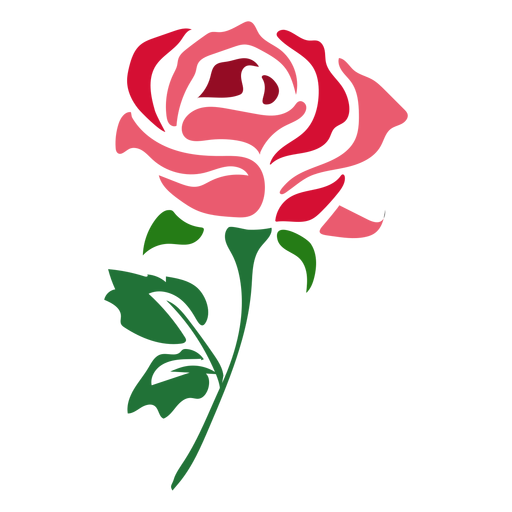
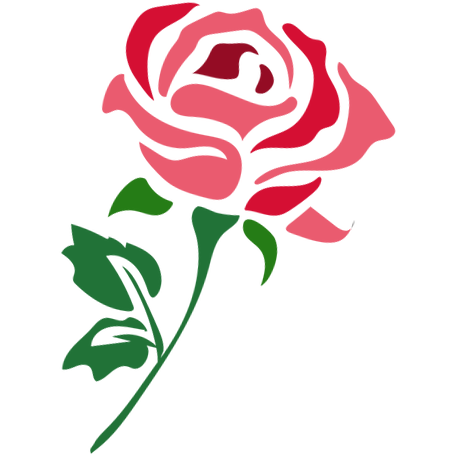
Added a lot to GUI
- Added a proper GUI blueprint and added a tray icon
- Added a configuration file system
- Changed the logo a little (rotated to the right)

Changed region(s): [[0.1228, 0.0, 0.8904, 0.9518], [0.1842, 0.8596, 0.307, 1.0]]

diff --git a/Marseille/GUI.py b/Marseille/GUI.py
@@ -1,36 +1,104 @@
-from PySide6.QtGui import QFont, QFontDatabase
-from PySide6.QtWidgets import QMainWindow, QPushButton, QLabel, QWidget, QApplication
+from PySide6.QtGui import QFont, QFontDatabase, QIcon, QImage, QPicture, QPixmap
+from PySide6.QtWidgets import QApplication, QHBoxLayout, QLabel, QMainWindow, QMenu, QPushButton, QSystemTrayIcon, QTextEdit, QVBoxLayout, QWidget
 import sys
+
 
 # ————— GUI INITIATION FUNCTION —————
 def GUI_Initiation():
+	# ————— LOAD USER CONFIGURATION —————
+	global loaded_config
+	loaded_config = load_config()
+	for config, value in loaded_config.items():
+		print(f">>> {config} : {value}")
+
+	global app, window, tray_icon
 	app = QApplication(sys.argv)
-	QFontDatabase.addApplicationFont("Media\\Anaheim-Regular.ttf")
-	app.setFont(QFont("Anaheim", 40))
-	window = MainWindow()
-	window.show()
+	QFontDatabase.addApplicationFont("Media/Anaheim-Regular.ttf")
+	QFontDatabase.addApplicationFont("Media/Segoe UI.ttf")
+	app.setFont(QFont("Anaheim"))
+
+
+	window = MainWindow()	
+	tray_icon = SystemTrayIcon(QIcon("Media/rose.png"), window)
 
 	app.exec()
 
 	return
+
+def load_config():
+	config = {}
+	file = open("config.txt", "r")
+	# config_lines = file.read().split("\n")
+	config_lines = file.readlines()
+	file.close()
+
+	for line in config_lines:
+		config_split = line.split(":")
+		config[config_split[0]] = eval(config_split[1])
+
+	return config
 
 # ————— MAIN WINDOW CLASS —————
 class MainWindow(QMainWindow):
 	def __init__(self):
 		super().__init__()
 		self.setWindowTitle("Marseille")
-		self.resize(800, 450)
+		self.setWindowIcon(QIcon("Media/rose.png"))
+		self.resize(loaded_config["window_width"], loaded_config["window_height"])
+		self.setMinimumSize(800, 450)
 		self.setContentsMargins(20, 20, 20, 20)
-		self.button1 = SendButton()
-		self.setCentralWidget(self.button1)
- 
-		label = QLabel("Hello World", self)
-		label.move(50, 100)
+		# button1 = SendButton()
+
+		label = QLabel(self)
+		pixmap = QPixmap("Media/rose_resized.png")
+		label.setPixmap(pixmap)
+		self.setCentralWidget(label)
+
+		if loaded_config["open_window_on_startup"]:
+			self.show()
+
+	def closeEvent(self, event):
+		if loaded_config["minimise_in_tray_on_quit"]:
+			event.ignore()
+			window.hide()
+			tray_icon.show()
+			tray_icon.showMessage('Window minimised', 'Marseille is running in the background.')
+			print(">>> Window minimised. Marseille is running in the background.")
+
+# ————— TRAY ICON CLASS —————
+class SystemTrayIcon(QSystemTrayIcon):
+	def __init__(self, icon, parent = None):
+		super().__init__(icon, parent)
+		self.setToolTip("Marseille Tray Application")
+
+		menu = QMenu(parent)
+		menu.setFont(QFont("Segoe UI", 9))
+		open_app = menu.addAction("Open Marseille")
+		open_app.triggered.connect(self.showMWindow)
+		open_app.setIcon(icon)
+
+		menu.addSeparator()
+
+		quit_app = menu.addAction("Quit")
+		quit_app.triggered.connect(lambda self : app.quit())
+
+		self.setContextMenu(menu)
+		self.activated.connect(self.onTrayIconActivated)
+
+		if loaded_config["open_window_on_startup"] == False:
+			self.show()
+
+	def onTrayIconActivated(self, reason):
+		if reason == QSystemTrayIcon.Trigger:
+			window.show()
+			tray_icon.hide()
+
+	def showMWindow(self):
+		window.show()
+		tray_icon.hide()
 
 # ————— SEND BUTTON CLASS —————
 class SendButton(QPushButton):
 	def __init__(self):
 		super().__init__()
 		self.setText("A peculiar button...")
-		# self.setText("A peculiar button")
-

diff --git a/Marseille/Marseille.py b/Marseille/Marseille.py
@@ -14,6 +14,8 @@ def main():
 	print(">>> Initialising Marseille...")
 	GUI_Initiation()
 
+	return
+
 # ————— SPEECH RECOGNITION FUNCTION —————
 def Listen():
 	active = True
